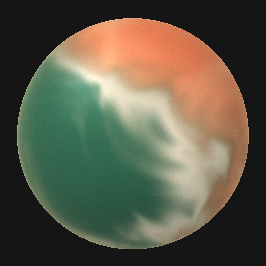
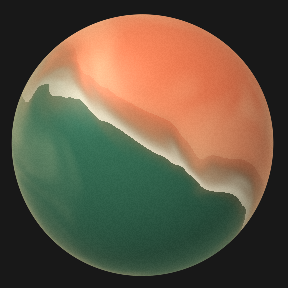
feat: allow voice orb size overrides

diff --git a/test/motion/voice_orb_test.dart b/test/motion/voice_orb_test.dart
@@ -1,3 +1,4 @@
+import 'dart:io';
 import 'dart:typed_data';
 import 'dart:ui' as ui;
 
@@ -79,6 +80,27 @@ double _motionTarget(WidgetTester tester) =>
 
 void main() {
   TestWidgetsFlutterBinding.ensureInitialized();
+
+  test('proof captions mark comparison media as historical', () {
+    final html = File('example/proof/voice-orb/show-me.html').readAsStringSync();
+    final figures = RegExp(r'<figure\b[^>]*>[\s\S]*?</figure>')
+        .allMatches(html)
+        .map((match) => match.group(0)!)
+        .toList();
+    for (final media in ['side-by-side.png', 'voice-orb-vs-beui.dev.mp4']) {
+      final figure = figures.firstWhere(
+        (figure) => figure.contains('src="$media"'),
+        orElse: () => '',
+      );
+      expect(figure, isNotEmpty, reason: 'figure for $media');
+      final caption = RegExp(
+        r'<figcaption>([\s\S]*?)</figcaption>',
+      ).firstMatch(figure);
+      expect(caption, isNotNull, reason: 'caption for $media');
+      expect(caption!.group(1), contains('Historical'));
+      expect(caption.group(1), contains('not round-3 evidence'));
+    }
+  });
 
   testWidgets('label replaces child semantics with an image name', (
     tester,
@@ -635,6 +657,52 @@ void main() {
     expect(find.text('SENTINEL orb'), findsOneWidget);
     expect(find.bySemanticsLabel('SENTINEL orb'), findsNothing);
     semantics.dispose();
+  });
+
+  testWidgets('size defaults to 256 and override resizes the same widget', (
+    tester,
+  ) async {
+    await tester.pumpWidget(beuiTestApp(const BeuiVoiceOrb()));
+    await tester.pump();
+    expect(kBeuiVoiceOrbSize, 256);
+    expect(
+      tester.getSize(find.byKey(beuiVoiceOrbCanvasKey)),
+      const Size(256, 256),
+    );
+
+    await tester.pumpWidget(beuiTestApp(const BeuiVoiceOrb(size: 288)));
+    await tester.pump();
+    expect(
+      tester.getSize(find.byKey(beuiVoiceOrbCanvasKey)),
+      const Size(288, 288),
+    );
+
+    await tester.pumpWidget(beuiTestApp(const BeuiVoiceOrb(size: 192)));
+    await tester.pump();
+    expect(
+      tester.getSize(find.byKey(beuiVoiceOrbCanvasKey)),
+      const Size(192, 192),
+    );
+  });
+
+  testWidgets('zero, negative, NaN, and infinite sizes fall back to 256', (
+    tester,
+  ) async {
+    for (final size in <double>[
+      0,
+      -1,
+      double.nan,
+      double.infinity,
+      double.negativeInfinity,
+    ]) {
+      await tester.pumpWidget(beuiTestApp(BeuiVoiceOrb(size: size)));
+      await tester.pump();
+      expect(
+        tester.getSize(find.byKey(beuiVoiceOrbCanvasKey)),
+        const Size(256, 256),
+        reason: 'size $size should use the default',
+      );
+    }
   });
 
   testWidgets('rest-state golden loads the real shader (reduced motion, t=0)', (

diff --git a/example/proof/voice-orb/show-me.html b/example/proof/voice-orb/show-me.html
@@ -73,11 +73,12 @@
   <main>
     <h1>Voice Orb parity</h1>
     <p class="lead">beui.dev reference (left) vs Flutter <code>BeuiVoiceOrb</code> (right). Dark, live shader. design-compare widget / dark-ui.</p>
+    <p>Scores are recorded in <a href="round3/SCORES.md">round3/SCORES.md</a>. These scores were not independently revalidated in this review.</p>
     <div class="scores">
-      <div class="score"><b>74.86</b><span>still overall</span></div>
-      <div class="score"><b>85.94</b><span>color · ΔE 2.88</span></div>
-      <div class="score"><b>90.5</b><span>motion score</span></div>
-      <div class="score"><b>0.91</b><span>energy ratio</span></div>
+      <div class="score"><b>89.05</b><span>still overall</span></div>
+      <div class="score"><b>89.56</b><span>color · ΔE 2.1</span></div>
+      <div class="score"><b>94.8</b><span>motion score</span></div>
+      <div class="score"><b>0.95</b><span>energy ratio</span></div>
     </div>
     <div class="grid">
       <figure>
@@ -86,20 +87,20 @@
       </figure>
       <figure>
         <img src="candidate-orb.png" alt="Flutter Voice Orb" />
-        <figcaption>Flutter web · voice_orb_preview.dart?theme=dark</figcaption>
+        <figcaption>Flutter web · gallery ?slug=voice-orb&amp;theme=dark · size 288</figcaption>
       </figure>
       <figure class="span">
         <img src="side-by-side.png" alt="design-compare side by side" />
-        <figcaption>compare_designs overlay (widget, dark-ui)</figcaption>
+        <figcaption>Historical comparison, not round-3 evidence. compare_designs overlay (widget, dark-ui)</figcaption>
       </figure>
       <figure class="span">
         <video src="voice-orb-vs-beui.dev.mp4" poster="side-by-side.png" autoplay loop muted playsinline controls></video>
-        <figcaption>Left beui.dev · right Flutter · 12 frames @ 130ms</figcaption>
+        <figcaption>Historical comparison, not round-3 evidence. Left beui.dev · right Flutter · 12 frames @ 130ms</figcaption>
       </figure>
     </div>
     <pre><span class="dot">BeuiVoiceOrb</span>
   activity | activityListenable | analyser
-  colors, speed, active, onError, semanticLabel
+  colors, size (default 256, preview 288), speed, active, onError, semanticLabel
   Semantics(image, excludeSemantics)
     SingleMotionBuilder(SPRING_GLIDE 700/50/0.5)
       CustomPaint → shaders/beui_voice_orb.frag

diff --git a/lib/src/motion/voice_orb.dart b/lib/src/motion/voice_orb.dart
@@ -42,8 +42,12 @@ const (Color, Color, Color) kBeuiVoiceOrbColors = (
   Color(0xFF346B52),
 );
 
-/// Source `w-64` / `aspect-square`.
+/// Source `w-64` / `aspect-square`. The live preview wraps this at
+/// `sm:w-72` (288); pass [BeuiVoiceOrb.size] to match that frame.
 const double kBeuiVoiceOrbSize = 256;
+
+double _orbSize(double value) =>
+    value.isFinite && value > 0 ? value : kBeuiVoiceOrbSize;
 
 @visibleForTesting
 const beuiVoiceOrbCanvasKey = ValueKey<String>('beui_voice_orb_canvas');
@@ -74,6 +78,7 @@ class BeuiVoiceOrb extends StatefulWidget {
     this.activityListenable,
     this.analyser,
     this.colors = kBeuiVoiceOrbColors,
+    this.size = kBeuiVoiceOrbSize,
     this.active = true,
     this.speed = 1,
     this.onError,
@@ -95,6 +100,10 @@ class BeuiVoiceOrb extends StatefulWidget {
 
   /// Base pigment, highlight and shadow.
   final (Color, Color, Color) colors;
+
+  /// Square edge in logical pixels. Source default is `w-64` (256).
+  /// Non-finite or non-positive values fall back to [kBeuiVoiceOrbSize].
+  final double size;
 
   /// Pause the material while keeping the current surface visible.
   final bool active;
@@ -468,7 +477,10 @@ class _BeuiVoiceOrbState extends State<BeuiVoiceOrb>
             builder: (context, smooth, _) => shell(smooth),
           );
 
-    Widget box = SizedBox.square(dimension: kBeuiVoiceOrbSize, child: child);
+    Widget box = SizedBox.square(
+      dimension: _orbSize(widget.size),
+      child: child,
+    );
 
     final label = widget.semanticLabel;
     if (label == null || label.isEmpty) {

diff --git a/example/lib/demos/voice_orb_demo.dart b/example/lib/demos/voice_orb_demo.dart
@@ -37,9 +37,7 @@ class _VoiceOrbDemo extends StatelessWidget {
       child: Center(
         child: Column(
           children: [
-            _SectionLabel('Voice visualization'),
-            SizedBox(height: 24),
-            _SimulatedOrb(),
+            _SimulatedOrb(size: 288),
             SizedBox(height: 48),
             _SectionLabel('Custom pigments'),
             SizedBox(height: 24),
@@ -54,9 +52,13 @@ class _VoiceOrbDemo extends StatelessWidget {
 }
 
 class _SimulatedOrb extends StatefulWidget {
-  const _SimulatedOrb({this.colors = kBeuiVoiceOrbColors});
+  const _SimulatedOrb({
+    this.colors = kBeuiVoiceOrbColors,
+    this.size = kBeuiVoiceOrbSize,
+  });
 
   final (Color, Color, Color) colors;
+  final double size;
 
   @override
   State<_SimulatedOrb> createState() => _SimulatedOrbState();
@@ -109,6 +111,7 @@ class _SimulatedOrbState extends State<_SimulatedOrb>
     return BeuiVoiceOrb(
       activityListenable: _activity,
       colors: widget.colors,
+      size: widget.size,
       semanticLabel: 'Voice visualization',
     );
   }

diff --git a/README.md b/README.md
@@ -255,7 +255,7 @@ Mirrors the [beui.dev](https://beui.dev) sidebar order. ✨ marks entries added 
 | Approval Card | `BeuiApprovalCard` | Human-in-the-loop surface for approvals, questions, and compact-to-expanded proposals |
 | AI Sidebar | `BeuiAiSidebar` | Workspace sidebar for folders, projects, files and bookmarks with inline rename |
 | Chat App | `BeuiChatApp` | A complete conversation workspace composing the widgets above, with a responsive sidebar |
-| Voice Orb | `BeuiVoiceOrb` | Breathing liquid voice visualization with custom pigments and a voice-reactive silhouette |
+| Voice Orb | `BeuiVoiceOrb` | Breathing liquid voice visualization with custom pigments, a voice-reactive silhouette, and a `size` override |
 | Agent Theme | — | Gallery route that installs a custom `BeuiAgentTheme` on the real widgets |
 
 Also exported as standalone primitives: `BeuiMagnetic` (cursor-follow pull) and the `BeuiOverlay` foundation.

diff --git a/example/proof/voice-orb/round3/SCORES.md b/example/proof/voice-orb/round3/SCORES.md
@@ -1,0 +1,31 @@
+# Voice Orb design-compare (round 3)
+
+Baseline: https://beui.dev/components/agents/voice-orb
+Candidate: gallery `?section=agents&slug=voice-orb&theme=dark` primary orb, size 288.
+
+## Rest (compare_designs widget / dark-ui)
+
+| metric | score |
+| --- | --- |
+| overall | 89.05 |
+| layout SSIM | 88.97 |
+| color | 89.56 (mean ΔE 2.1) |
+| content | 100 |
+| spacing | 97.4 |
+| typography | n/a (no text) |
+| cv_findings | none |
+
+Interior ridge vs cloudy cream is animation-phase, not a shader miss. Voice Orb has no hover on the source.
+
+## Motion (compare_motion, 12 frames @ 130ms)
+
+| metric | value |
+| --- | --- |
+| motion_status | compared |
+| motion_score | 94.8 |
+| energy_ratio | 0.948 |
+| ref_moving | true |
+| cand_moving | true |
+| temporal_corr | -0.21 (unsynced living fields) |
+
+Source WebGL captured via Puppeteer + SwiftShader (headless capture_frames cannot draw the source orb).

diff --git a/CHANGELOG.md b/CHANGELOG.md
@@ -4,7 +4,8 @@
 
 * `BeuiVoiceOrb` — breathing liquid voice visualization with flowing
   highlights, custom pigments, a voice-reactive silhouette, a caller-owned
-  analyser, offscreen pause, and a reduced-motion freeze.
+  analyser, offscreen pause, a reduced-motion freeze, and a `size` override
+  (default `w-64` / 256; the live preview uses `sm:w-72` / 288).
 * Gallery order now matches the source agents page clusters, then extras
   (AI Sidebar, Chat App, Voice Orb, Agent Theme).
 
